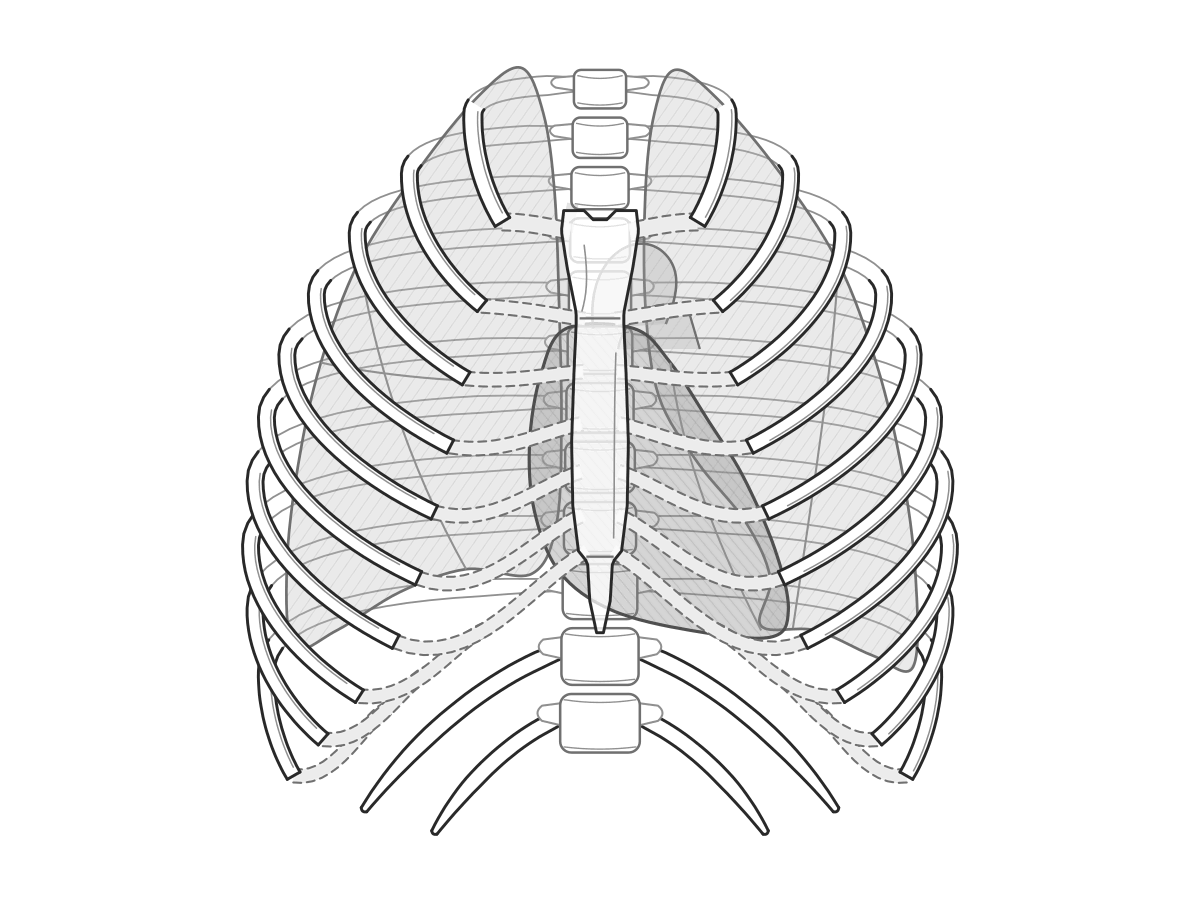
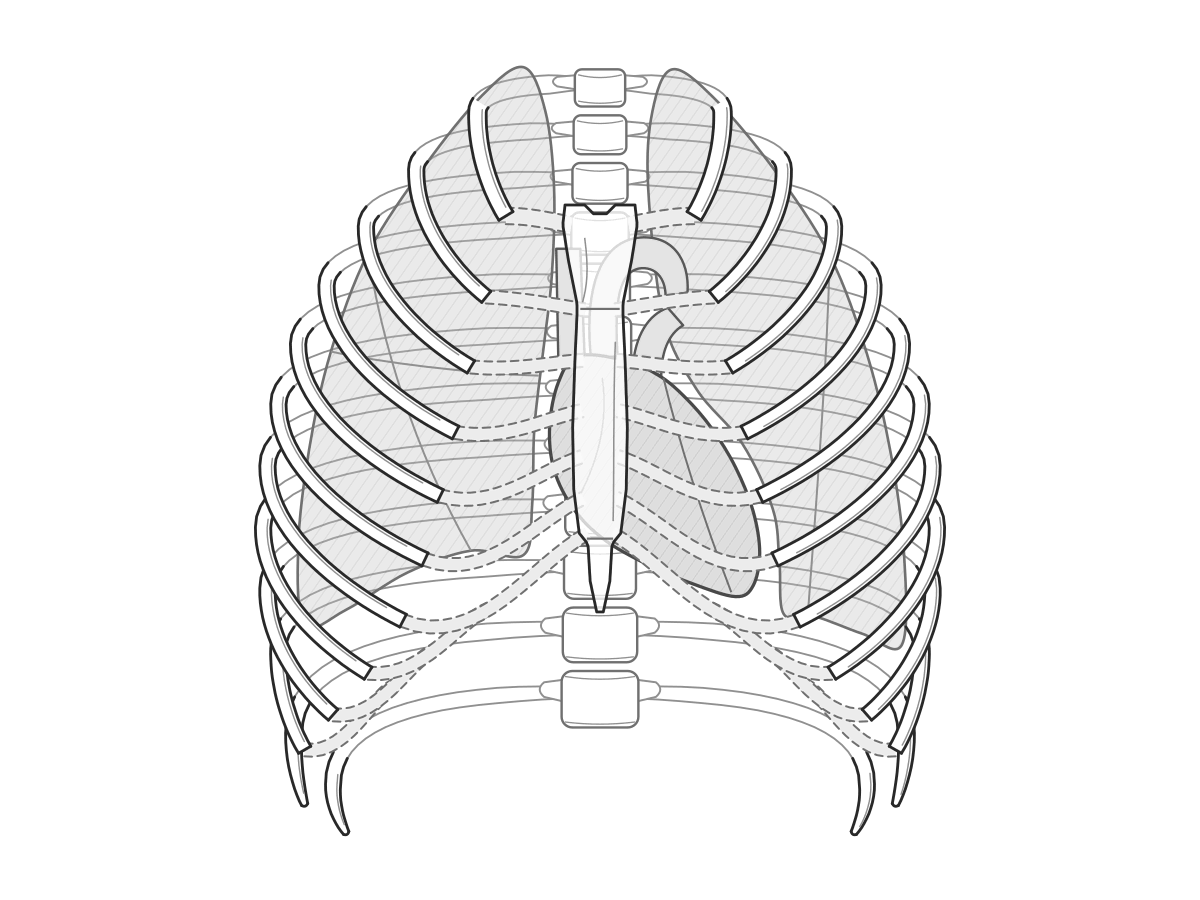
bones-and-joints: protected-organs figure review fixes (floating ribs short at the flanks, every rib shows its back half; recognisable heart)
Ribs 11–12 now follow the same construction as ribs 1–10: a light back half
from T11/T12 to the lateral bend, then only a short tapered piece with a free
tip at the flank, behind rib 10 (rib 12 shorter than 11). The heart is a
smaller solid light outline with a darker edge and its great vessels, to the
body's left of the sternum and partly behind it, apex down and out; the left
lung's notch follows it. Caption says the floating ribs end free at the sides.
New assertions: front part starts at the lateral bend for every rib; floating
ribs shorter than rib 10 with tips at the flank; heart size and placement;
24 back halves in the SVG. WebP 102,314 B.

Changed region(s): [[0.185, 0.0622, 0.8017, 0.9333], [0.5858, 0.84, 0.6475, 0.9333], [0.3392, 0.9022, 0.37, 0.9333]]

diff --git a/scripts/figures/bones-protected-organs.ts b/scripts/figures/bones-protected-organs.ts
@@ -139,8 +139,8 @@ const DESIGN: RibDesign[] = [
   { reach: 308, bendDrop: 74, end: [212, 624] },
   { reach: 304, bendDrop: 76, end: [244, 662] },
   { reach: 294, bendDrop: 76, end: [270, 694] },
-  { reach: 0, bendDrop: 0, end: [208, 724] },
-  { reach: 0, bendDrop: 0, end: [146, 744] },
+  { reach: 280, bendDrop: 96, end: [270, 744] },
+  { reach: 244, bendDrop: 84, end: [232, 770] },
 ];
 /** Where a false rib's cartilage meets the cartilage above, as a fraction from that cartilage's junction. */
 const JOIN_AT = 0.42;
@@ -166,42 +166,35 @@ function ribsFor(side: Side, spine: Vertebra[]): Rib[] {
     const d = DESIGN[i]!;
     const v = spine[i]!;
     const head: Point = [v.halfWidth - 3, v.centre[1] - v.height * 0.12];
-    let bone: Point[];
-    let frontFrom: number;
+    // Every rib: a back half from its vertebra out to the lateral bend (behind the organs), then
+    // the part seen from the front. Floating ribs turn at the flank and stop in a free tip there.
+    const end = d.end;
+    const bend: Point = [d.reach, head[1] + d.bendDrop];
+    const back = cubic(head, [head[0] + (d.reach - head[0]) * 0.62, head[1] + d.bendDrop * 0.02], [d.reach, head[1] + d.bendDrop * 0.3], bend, 18);
+    const front = cubic(
+      bend,
+      [d.reach + 1, bend[1] + (end[1] - bend[1]) * 0.4],
+      [end[0] + (d.reach - end[0]) * 0.5, end[1] - (end[1] - bend[1]) * 0.22],
+      end,
+      n <= 10 ? 22 : 10,
+    );
+    const bone = [...back, ...front.slice(1)];
+    const frontFrom = back.length - 4;
     let cartilage: Point[] = [];
     let joins: Rib['joins'];
-    if (n <= 10) {
-      const bend: Point = [d.reach, head[1] + d.bendDrop];
-      const back = cubic(head, [head[0] + (d.reach - head[0]) * 0.62, head[1] + d.bendDrop * 0.02], [d.reach, head[1] + d.bendDrop * 0.3], bend, 18);
-      const end = d.end;
-      const front = cubic(
-        bend,
-        [d.reach + 1, bend[1] + (end[1] - bend[1]) * 0.4],
-        [end[0] + (d.reach - end[0]) * 0.5, end[1] - (end[1] - bend[1]) * 0.22],
-        end,
-        22,
-      );
-      bone = [...back, ...front.slice(1)];
-      frontFrom = back.length - 4;
-      if (n <= 7) {
-        const sy = d.sternalY!;
-        const sx = sternumHalfWidth(sy) - 8;
-        const dx = end[0] - sx;
-        cartilage = cubic(end, [end[0] - dx * 0.4, end[1] + d.sag!], [sx + dx * 0.3, sy + (end[1] - sy) * 0.35], [sx, sy], 16);
-        joins = { to: 'sternum' };
-      } else {
-        const above = cartilageOf[i - 1]!;
-        const meet = along(above, JOIN_AT + 0.08 * (n - 8));
-        const dx = end[0] - meet[0];
-        cartilage = cubic(end, [end[0] - dx * 0.45, end[1] + 6], [meet[0] + dx * 0.25, meet[1] + 10], meet, 14);
-        joins = { to: 'cartilage', rib: n - 1 };
-      }
+    if (n <= 7) {
+      const sy = d.sternalY!;
+      const sx = sternumHalfWidth(sy) - 8;
+      const dx = end[0] - sx;
+      cartilage = cubic(end, [end[0] - dx * 0.4, end[1] + d.sag!], [sx + dx * 0.3, sy + (end[1] - sy) * 0.35], [sx, sy], 16);
+      joins = { to: 'sternum' };
+    } else if (n <= 10) {
+      const above = cartilageOf[i - 1]!;
+      const meet = along(above, JOIN_AT + 0.08 * (n - 8));
+      const dx = end[0] - meet[0];
+      cartilage = cubic(end, [end[0] - dx * 0.45, end[1] + 6], [meet[0] + dx * 0.25, meet[1] + 10], meet, 14);
+      joins = { to: 'cartilage', rib: n - 1 };
     } else {
-      const tip = d.end;
-      const dx = tip[0] - head[0];
-      const dy = tip[1] - head[1];
-      bone = cubic(head, [head[0] + dx * 0.38, head[1] + dy * 0.16], [tip[0] - dx * 0.24, tip[1] - dy * 0.42], tip, 26);
-      frontFrom = bone.length - 1;
       joins = { to: 'free' };
     }
     cartilageOf.push(cartilage);
@@ -239,15 +232,17 @@ export function thorax(): Thorax {
   // Organs: the subject's right lung is on the viewer's left; the heart leans to the subject's left.
   const rightLung: Point[] = [
     [-70, 70], [-108, 96], [-160, 160], [-212, 240], [-246, 330], [-266, 420], [-276, 510], [-270, 580],
-    [-232, 566], [-176, 532], [-118, 512], [-60, 516], [-38, 470], [-34, 380], [-36, 280], [-40, 180], [-50, 110],
+    [-232, 566], [-176, 532], [-118, 512], [-70, 516], [-62, 470], [-60, 400], [-52, 330], [-44, 260], [-42, 180], [-50, 110],
   ];
+  // The left lung's medial border follows the heart (cardiac notch).
   const leftLung: Point[] = [
     [66, 72], [104, 98], [158, 162], [210, 242], [244, 332], [266, 424], [278, 516], [276, 598],
-    [240, 588], [190, 566], [142, 562], [150, 520], [128, 470], [86, 418], [52, 360], [40, 280], [40, 180], [48, 110],
+    [240, 588], [196, 572], [168, 570], [164, 522], [158, 474], [130, 414], [88, 364], [58, 300], [44, 180], [48, 110],
   ];
+  // Heart, anterior view: right atrium on the viewer's left, apex down towards the viewer's right.
   const heart: Point[] = [
-    [-30, 300], [-52, 340], [-62, 400], [-58, 460], [-36, 514], [10, 548], [80, 566], [150, 572], [166, 548],
-    [154, 494], [126, 430], [96, 382], [62, 330], [30, 300],
+    [-20, 334], [-38, 358], [-46, 398], [-42, 438], [-24, 474], [4, 502], [42, 524], [84, 542], [124, 554],
+    [140, 544], [146, 514], [140, 476], [124, 436], [102, 400], [78, 372], [54, 352], [22, 338],
   ];
   return {
     vertebrae: spine,
@@ -360,14 +355,11 @@ export function svg(t: Thorax = thorax(), size: Point = [1200, 900]): string {
 
   const parts: string[] = [];
   // Spine (behind everything except the posterior rib shafts that tuck under the bodies).
-  // Floating ribs lie behind the lung bases and the costal margin, so they are drawn here, in full ink.
+  // The back half of every rib, in a light contour: it runs behind the organs to its vertebra.
   const posterior = t.ribs.map((r) => {
     const w = ribWidth(r);
-    if (r.kind === 'floating') {
-      return `<g data-rib="${r.side}-${r.number}" data-kind="${r.kind}" data-vertebra="${r.vertebra}">${band(r.bone, w, BONE, INK, 2.6)}${cap(r.bone, w, 'end', INK, 2.6)}</g>`;
-    }
     const back = r.bone.slice(0, r.frontFrom + 1);
-    return `<g data-rib-back="${r.side}-${r.number}">${band(back, (u) => w((u * r.frontFrom) / (r.bone.length - 1)), 'none', INK_BACK, 1.6)}</g>`;
+    return `<g data-rib-back="${r.side}-${r.number}">${band(back, (u) => w((u * r.frontFrom) / (r.bone.length - 1)), 'none', INK_BACK, 1.7)}</g>`;
   });
   parts.push(`<g id="posterior-ribs">${posterior.join('')}</g>`);
 
@@ -391,40 +383,49 @@ export function svg(t: Thorax = thorax(), size: Point = [1200, 900]): string {
     `<path d="${closedSpline(t.lungs[side])}" fill="#bdbdbd" fill-opacity="0.32" stroke="${INK_SOFT}" stroke-width="2.4"/>` +
     `<path d="${closedSpline(t.lungs[side])}" fill="url(#hatch-lung)"/>`;
   const fissures =
-    `<path d="M-246,330 C-200,340 -120,350 -40,346" fill="none" stroke="${INK_BACK}" stroke-width="1.8"/>` +
+    `<path d="M-246,330 C-200,340 -120,350 -56,352" fill="none" stroke="${INK_BACK}" stroke-width="1.8"/>` +
     `<path d="M-212,240 C-200,320 -170,420 -118,512" fill="none" stroke="${INK_BACK}" stroke-width="1.8"/>` +
-    `<path d="M210,242 C206,330 188,440 170,564" fill="none" stroke="${INK_BACK}" stroke-width="1.8"/>`;
+    `<path d="M210,242 C208,330 200,440 190,570" fill="none" stroke="${INK_BACK}" stroke-width="1.8"/>`;
+  // Heart in a light tone like the lungs, but solid (it hides the back of the ribs), with a darker edge: superior vena cava,
+  // ascending aorta and arch, pulmonary trunk, and the groove between the ventricles.
+  const vessel = 'fill="#e4e4e4" stroke="#555555" stroke-width="2.2" stroke-linejoin="round"';
   const heart =
-    `<path d="M-30,300 C-36,250 -32,226 -24,190" fill="none" stroke="${INK_SOFT}" stroke-width="10" stroke-opacity="0.18"/>` +
-    `<path d="M-6,300 C-14,232 40,206 62,240 C72,256 66,276 58,296" fill="#a8a8a8" fill-opacity="0.32" stroke="${INK_SOFT}" stroke-width="2.2"/>` +
-    `<path d="M16,318 C22,286 52,270 78,284 L88,318" fill="#a8a8a8" fill-opacity="0.3" stroke="${INK_SOFT}" stroke-width="2"/>` +
-    `<path d="${closedSpline(t.heart)}" fill="#8c8c8c" fill-opacity="0.36" stroke="#4d4d4d" stroke-width="2.8"/>` +
-    `<path d="${closedSpline(t.heart)}" fill="url(#hatch-heart)"/>` +
-    `<path d="M62,330 C70,400 98,480 142,566" fill="none" stroke="${INK_BACK}" stroke-width="1.8"/>`;
+    `<path d="M-38,344 L-40,236 L-18,236 L-14,336 Z" ${vessel}/>` +
+    `<path d="M-8,338 C-14,286 -6,232 34,226 C66,222 82,246 80,276 L60,280 C60,262 50,252 36,254 C14,258 14,296 16,334 Z" ${vessel}/>` +
+    `<path d="M30,344 C32,316 44,296 62,290 L76,306 C62,314 56,332 56,352 Z" ${vessel}/>` +
+    `<path d="${closedSpline(t.heart)}" fill="#dedede" stroke="#4a4a4a" stroke-width="3"/>` +
+    `<path d="${closedSpline(t.heart)}" fill="url(#hatch-lung)"/>` +
+    `<path d="M58,354 C72,412 94,482 120,550" fill="none" stroke="${INK_SOFT}" stroke-width="1.8"/>` +
+    `<path d="M-22,468 C-2,432 8,394 2,354" fill="none" stroke="${INK_BACK}" stroke-width="1.5"/>`;
   parts.push(`<g id="organs">${lung('right')}${lung('left')}${fissures}${heart}</g>`);
 
   // Front of the cage: cartilages (lighter, dashed contour) under the anterior shafts, then the sternum.
-  // Lower ribs first, so each cartilage of the costal margin is overlapped by the one it joins.
   const front: string[] = [];
   for (const side of ['right', 'left'] as const) {
-    const attached = t.ribs.filter((r) => r.side === side && r.kind !== 'floating').sort((a, b) => b.number - a.number);
-    for (const r of attached) {
+    // Lowest first: floating ribs sit behind rib 10 at the flank, and each cartilage of the
+    // costal margin is overlapped by the one it joins.
+    const ribs = t.ribs.filter((r) => r.side === side).sort((a, b) => b.number - a.number);
+    for (const r of ribs) {
       const w = ribWidth(r);
-      const cartilage = band(r.cartilage, () => (r.number === 1 ? 15 : 12), CARTILAGE, INK_SOFT, 1.8, ' stroke-dasharray="7 5"');
       const fr = r.bone.slice(r.frontFrom);
       const off = r.frontFrom / (r.bone.length - 1);
       const fw = (u: number) => w(off + u * (1 - off));
       // Graphite shading: one fine line running inside one edge of the shaft.
       const [, shade] = edges(fr, (u) => fw(u) * 0.52);
-      // Costochondral junction: a solid line across the band where bone becomes cartilage.
-      const [a, b] = edges(fr, fw);
-      const pa = a[a.length - 1]!;
-      const pb = b[b.length - 1]!;
-      front.push(
-        `<g data-rib="${r.side}-${r.number}" data-kind="${r.kind}" data-vertebra="${r.vertebra}">${cartilage}${band(fr, fw, BONE, INK, 2.6)}` +
-          `<polyline points="${pts(shade.slice(2, -2))}" fill="none" stroke="${INK_BACK}" stroke-width="1.3" stroke-linecap="round"/>` +
-          `<line x1="${f(pa[0])}" y1="${f(pa[1])}" x2="${f(pb[0])}" y2="${f(pb[1])}" stroke="${INK}" stroke-width="2.6" stroke-linecap="round"/></g>`,
-      );
+      const shading = `<polyline points="${pts(shade.slice(2, -2))}" fill="none" stroke="${INK_BACK}" stroke-width="1.3" stroke-linecap="round"/>`;
+      let ends: string;
+      if (r.kind === 'floating') {
+        // Free, rounded tip at the flank.
+        ends = cap(fr, fw, 'end', INK, 2.6);
+      } else {
+        // Costochondral junction: a solid line across the band where bone becomes cartilage.
+        const [a, b] = edges(fr, fw);
+        const pa = a[a.length - 1]!;
+        const pb = b[b.length - 1]!;
+        ends = `<line x1="${f(pa[0])}" y1="${f(pa[1])}" x2="${f(pb[0])}" y2="${f(pb[1])}" stroke="${INK}" stroke-width="2.6" stroke-linecap="round"/>`;
+      }
+      const cartilage = r.cartilage.length ? band(r.cartilage, () => (r.number === 1 ? 15 : 12), CARTILAGE, INK_SOFT, 1.8, ' stroke-dasharray="7 5"') : '';
+      front.push(`<g data-rib="${r.side}-${r.number}" data-kind="${r.kind}" data-vertebra="${r.vertebra}">${cartilage}${band(fr, fw, BONE, INK, 2.6)}${shading}${ends}</g>`);
     }
   }
   parts.push(`<g id="anterior-ribs">${front.join('')}</g>`);
@@ -435,7 +436,7 @@ export function svg(t: Thorax = thorax(), size: Point = [1200, 900]): string {
     `<path d="M-14,${STERNUM_TOP + 30} C-10,${STERNUM_TOP + 60} -12,${STERNAL_ANGLE - 20} -16,${STERNAL_ANGLE - 6} M14,${STERNAL_ANGLE + 30} C12,380 13,440 12,${XIPHISTERNAL - 16}" fill="none" stroke="${INK_BACK}" stroke-width="1.4"/>`;
   parts.push(`<g id="sternum">${sternum}</g>`);
 
-  const defs = `<defs>${hatch('hatch-lung', 9, 35, INK_SOFT, 1, 0.22)}${hatch('hatch-heart', 7, -40, INK_SOFT, 1.1, 0.3)}</defs>`;
+  const defs = `<defs>${hatch('hatch-lung', 9, 35, INK_SOFT, 1, 0.22)}</defs>`;
   return (
     `<svg xmlns="http://www.w3.org/2000/svg" width="${size[0]}" height="${size[1]}" viewBox="0 0 ${size[0]} ${size[1]}">` +
     defs +

diff --git a/tests/space-scene/bones-and-joints-figure.test.ts b/tests/space-scene/bones-and-joints-figure.test.ts
@@ -32,6 +32,13 @@ function distance(p: Point, line: readonly Point[]): number {
   return best;
 }
 
+const length = (line: readonly Point[]) => line.slice(1).reduce((sum, p, i) => sum + Math.hypot(p[0] - line[i]![0], p[1] - line[i]![1]), 0);
+const box = (poly: readonly Point[]) => {
+  const xs = poly.map((p) => p[0]);
+  const ys = poly.map((p) => p[1]);
+  return { x0: Math.min(...xs), x1: Math.max(...xs), y0: Math.min(...ys), y1: Math.max(...ys) };
+};
+
 const inBody = (p: Point, id: string) => {
   const v = t.vertebrae.find((x) => x.id === id)!;
   return Math.abs(p[0] - v.centre[0]) <= v.halfWidth && Math.abs(p[1] - v.centre[1]) <= v.height / 2;
@@ -90,15 +97,55 @@ describe('bones and joints: protected-organs figure geometry', () => {
     }
   });
 
-  it('draws one group per rib in the SVG, and the heart sits left of the midline', () => {
+  it.each(SIDES)('%s side: every rib shows its back half to the lateral bend, then its front part', (side) => {
+    for (const r of ribsOf(side)) {
+      const reach = Math.max(...r.bone.map((p) => Math.abs(p[0])));
+      expect(r.frontFrom).toBeGreaterThan(0);
+      expect(Math.abs(r.bone[r.frontFrom]![0])).toBeGreaterThanOrEqual(0.95 * reach);
+    }
+  });
+
+  it.each(SIDES)('%s side: floating ribs are short and end at the flank, not at the front', (side) => {
+    const rib = (n: number) => ribsOf(side).find((r) => r.number === n)!;
+    expect(length(rib(12).bone)).toBeLessThan(length(rib(11).bone));
+    expect(length(rib(11).bone)).toBeLessThan(length(rib(10).bone));
+    const junction8 = Math.abs(rib(8).cartilage[0]![0]);
+    for (const n of [11, 12]) {
+      const r = rib(n);
+      const reach = Math.max(...r.bone.map((p) => Math.abs(p[0])));
+      const tip = last(r.bone);
+      // Seen from the front, only a short piece past the lateral bend shows, ending in a free tip at the side.
+      expect(length(r.bone.slice(r.frontFrom))).toBeLessThan(0.4 * length(r.bone));
+      expect(Math.abs(tip[0])).toBeGreaterThan(0.85 * reach);
+      expect(Math.abs(tip[0])).toBeGreaterThan(junction8);
+    }
+  });
+
+  it('places a heart smaller than a lung, to the body\'s left of the sternum and partly behind it, apex down and out', () => {
+    const heart = box(t.heart);
+    const centre = (heart.x0 + heart.x1) / 2;
+    // The subject's left is the viewer's right in an anterior view.
+    expect(centre).toBeGreaterThan(30);
+    expect(heart.x0).toBeLessThan(0);
+    const apex = t.heart.reduce((a, b) => (b[1] > a[1] ? b : a));
+    expect(apex[0]).toBeGreaterThan(centre);
+    for (const side of SIDES) {
+      const lung = box(t.lungs[side]);
+      expect(heart.x1 - heart.x0).toBeLessThan(lung.x1 - lung.x0);
+      expect(heart.y1 - heart.y0).toBeLessThan(lung.y1 - lung.y0);
+    }
+    // Lungs on either side of it.
+    expect(box(t.lungs.right).x0).toBeLessThan(heart.x0);
+    expect(box(t.lungs.left).x1).toBeGreaterThan(heart.x1);
+  });
+
+  it('draws one group per rib in the SVG, each with its back half', () => {
     const text = svg(t);
     expect(text.match(/data-rib="/g)).toHaveLength(24);
+    expect(text.match(/data-rib-back="/g)).toHaveLength(24);
     expect(text.match(/data-kind="true"/g)).toHaveLength(14);
     expect(text.match(/data-kind="false"/g)).toHaveLength(6);
     expect(text.match(/data-kind="floating"/g)).toHaveLength(4);
-    // The subject's left is the viewer's right in an anterior view.
-    const xs = t.heart.map((p) => p[0]);
-    expect((Math.min(...xs) + Math.max(...xs)) / 2).toBeGreaterThan(0);
   });
 
   it('ships a 1200×900 neutral-grey WebP within the figure budget, used in both locales of chapter 02', async () => {

diff --git a/src/content/topics/bones-and-joints/FIGURES.md b/src/content/topics/bones-and-joints/FIGURES.md
@@ -11,7 +11,7 @@ encodes. The protected-organs figure uses no image generation at all.
 |---|---|---|
[4 lines of base64/hex data omitted]
 
 ## Protected organs: method
 
@@ -20,10 +20,13 @@ Generated from explicit geometry, deterministic:
 
 Anterior view of the thorax, graphite line art on a transparent ground, no
 labels (the caption carries the count, like the other figures). Back to front:
-thoracic vertebrae T1–T12 with transverse processes; the back halves of the
-ribs in a light contour; both lungs (fissures drawn) and the heart, leaning to
-the subject's left, in a translucent hatched tone; the front halves of the ribs
-in full ink with dashed, lighter costal cartilage; the sternum (manubrium, body,
+thoracic vertebrae T1–T12 with transverse processes; the back half of every
+rib, 1–12 alike, in a light contour from its vertebra to the lateral bend; both
+lungs (fissures drawn) in a translucent hatched tone, and between them a smaller
+heart outline in a light solid tone with a darker edge (superior vena cava,
+aorta, pulmonary trunk), centred to the subject's left of the sternum and partly
+behind it, apex down and out; the front parts of the ribs in full ink with
+dashed, lighter costal cartilage, ribs 11–12 only as a short piece at the flank; the sternum (manubrium, body,
 xiphoid) slightly translucent so the spine reads through it. No clavicles.
 
 **Count: 12 ribs per side, by construction.** Each rib is built from its own
@@ -33,17 +36,20 @@ vertebra outwards, so its head lies inside the body of Tn:
 |---|---|---|
 | 1–7 | true | own cartilage reaches the sternum edge |
 | 8–10 | false | cartilage joins the cartilage of the rib above (costal margin) |
-| 11–12 | floating | free tip, clear of every cartilage and other rib; posterior end at T11 / T12 |
+| 11–12 | floating | short; free tapered tip at the flank, lateral to rib 8's junction and clear of every cartilage and other rib; posterior end at T11 / T12 |
 
 `tests/space-scene/bones-and-joints-figure.test.ts` checks the geometry (12
 vertebrae; 12 ribs per side classed 7/3/2; every head inside its own vertebra
 and no other; true-rib cartilages end inside the sternum outline; false-rib
-cartilages end on the rib above's cartilage; floating tips free), the SVG (24
-rib groups, 14/6/4 by class) and the shipped WebP (1200×900, every decoded pixel
+cartilages end on the rib above's cartilage; floating tips free; every rib's
+front part starts at its lateral bend; rib 12 shorter than 11, 11 shorter than
+10, their visible piece under 40 % of the rib and their tips at the flank; heart
+smaller than a lung, right of the sternum on the page, partly behind it, apex
+down and out), the SVG (24 rib groups, 14/6/4 by class, 24 back halves) and the shipped WebP (1200×900, every decoded pixel
 R = G = B, transparent ground, within the 120 KiB figure budget, used in both
 locales of chapter 02).
 
-Visual check (2026-11-02): rendered at 1200 px and 360 px on paper, and inverted
+Visual check (2026-11-02, after review: floating ribs shortened to the flanks and given back halves like ribs 1–10; heart redrawn as a recognisable outline): rendered at 1200 px and 360 px on paper, and inverted
 on the dark plate; counted 12 per side from the top, junction by junction, with
 both floating pairs traced from their vertebrae to free tips.
 
